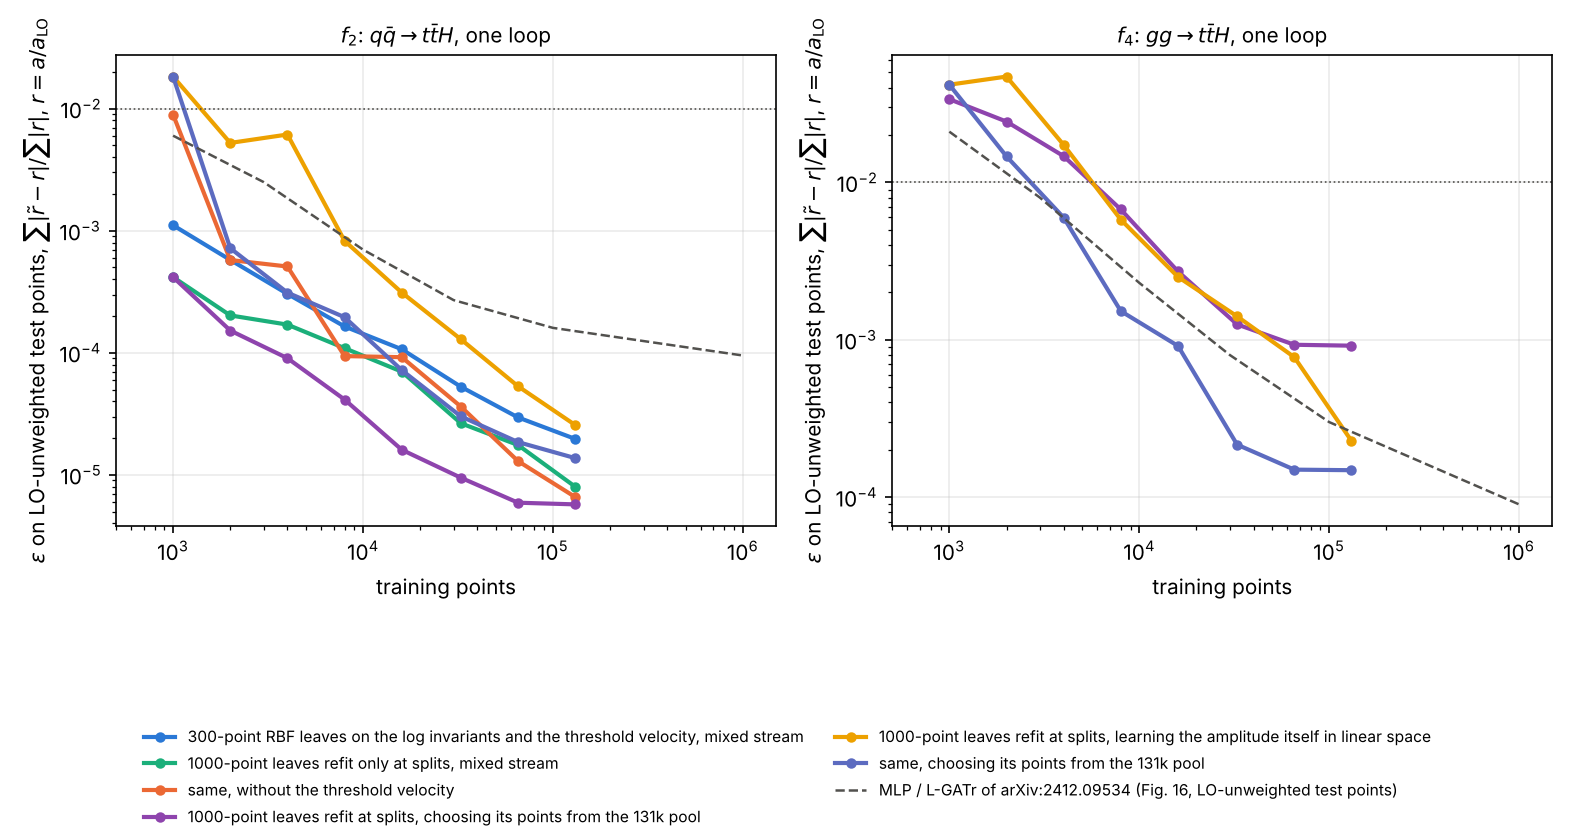
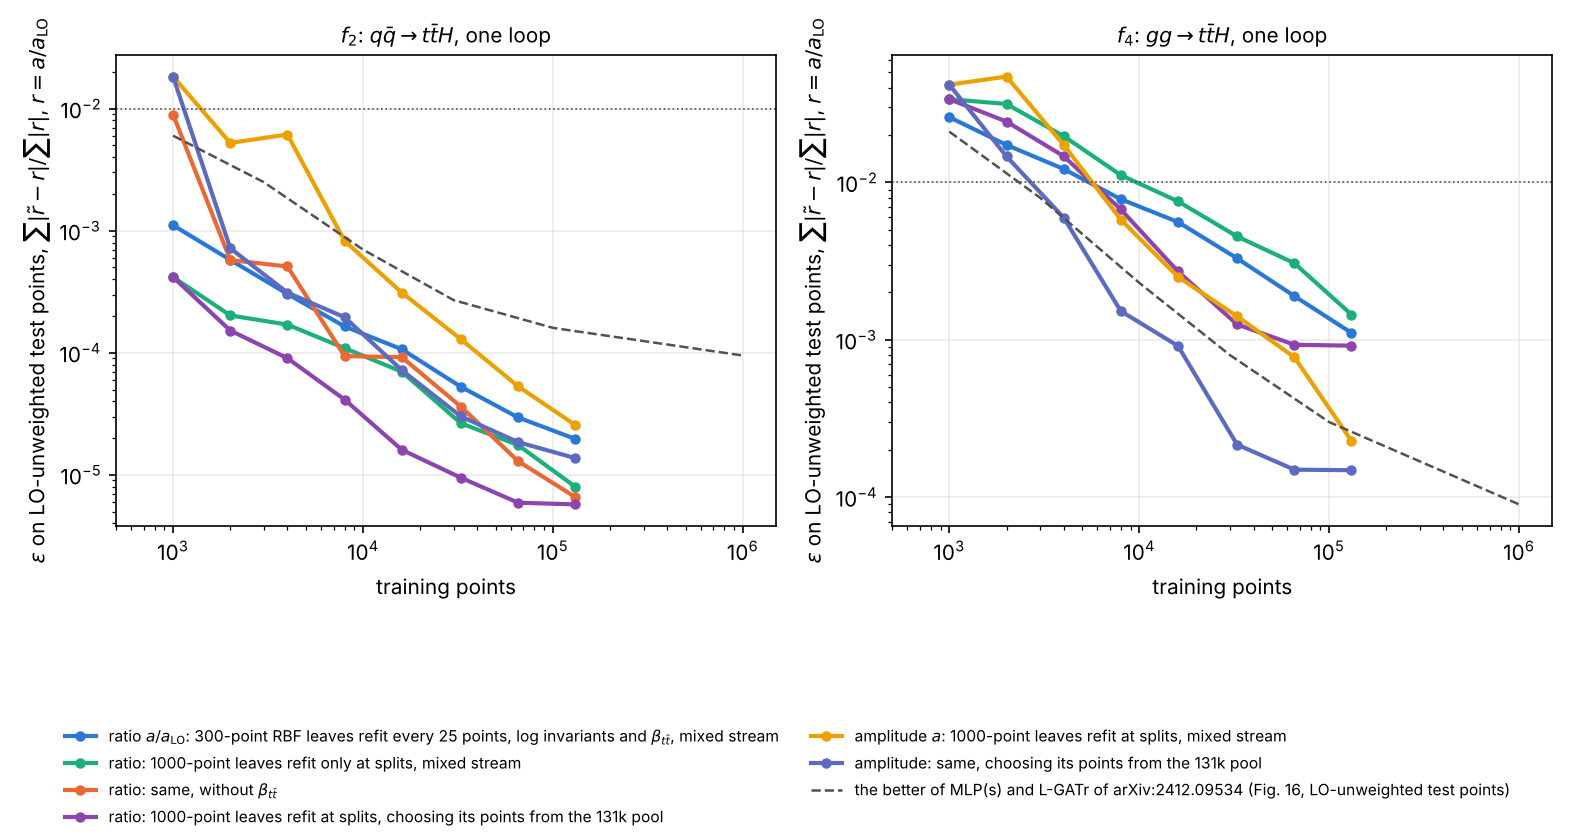
Final f4 results for the 300-point leaves; final one-loop figure
Claude-Session: https://claude.ai/code/session_0153hpVKJ5JPDq5CRhfaL7QL

Changed region(s): [[0.0311, 0.8667, 0.9644, 0.9905], [0.5911, 0.0929, 0.8711, 0.4024]]

diff --git a/examples/BENCHMARK_RESULTS_tth_amplitude.md b/examples/BENCHMARK_RESULTS_tth_amplitude.md
@@ -666,7 +666,7 @@ r = a/a_LO by a smooth function and leaves the learning problem the same.
 |---|---|---|---|---|
 | ratio, log invariants + β_tt̄, mixed stream | 1.1e-2 | 4.5e-3 | 3.1e-3 | 1.5e-3 |
 | ratio, without β_tt̄ (run to 65 536) | 1.25e-2 | 3.5e-3 | 2.7e-3 | – |
-| ratio, 300-point leaves refit every 25 points | 7.8e-3 | 3.3e-3 | 1.9e-3 | (running) |
+| ratio, 300-point leaves refit every 25 points | 7.8e-3 | 3.3e-3 | 1.9e-3 | 1.1e-3 |
 | ratio, choosing its points from the 131k pool | 6.7e-3 | 1.25e-3 | 9.3e-4 | 9.2e-4 |
 | amplitude, mixed stream | 5.8e-3 | 1.4e-3 | 7.8e-4 | 2.3e-4 |
 | amplitude, choosing its points from the 131k pool | 1.5e-3 | 2.2e-4 | 1.5e-4 | 1.5e-4 |
@@ -683,7 +683,7 @@ r = a/a_LO by a smooth function and leaves the learning problem the same.
 * **f4.** The ratio on the stream ends at 1.5e-3, 5.6 times behind the networks'
   2.6e-4 (interpolated), half of its last factor 2 gained between 65 536 and 131 032
   (leaves refit only at splits keep a bad fit until the next split, Section 2.11); 300-point leaves refit every 25 points do
-  better here, (running) at 131 032; the acquisition
+  better here, 1.1e-3 at 131 032, 4.3 times behind; the acquisition
   gains 3.6 at 32 768 and then flattens (9.3e-4 → 9.2e-4 from 65 536 to 131 072), 3.5
   times behind. Learning the amplitude a itself instead of r turns this around: 2.3e-4
   on the stream, 1.2 times below the networks at 131 072, and 1.5e-4 choosing its points
